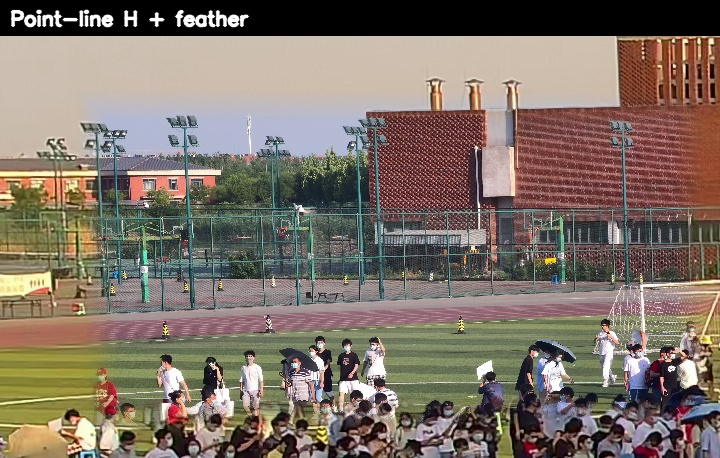
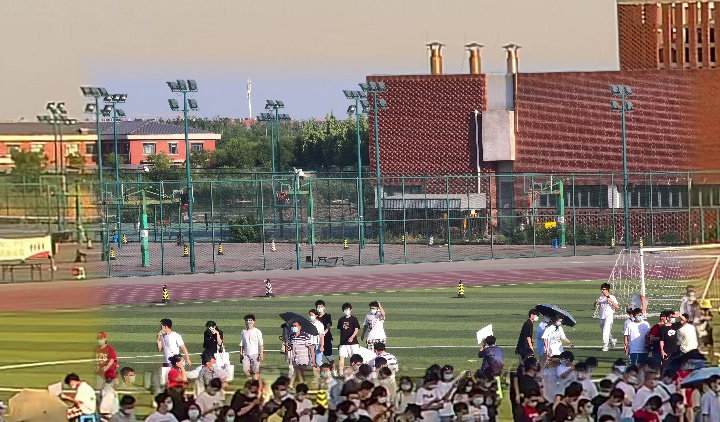
Polish three-region example figures

diff --git a/src/three_region_stitch/visualization.py b/src/three_region_stitch/visualization.py
@@ -35,19 +35,28 @@ def focus_bbox(roi: tuple[int, int, int, int], shape: tuple[int, int, int], padd
     )
 
 
+def same_crop_images(
+    pure: np.ndarray,
+    three_region: np.ndarray,
+    roi: tuple[int, int, int, int],
+) -> tuple[np.ndarray, np.ndarray]:
+    """Return the same ROI from both results without adding image annotations."""
+    if pure.shape != three_region.shape:
+        raise ValueError("Comparison images must be on the same Global canvas")
+    x0, y0, x1, y1 = focus_bbox(roi, pure.shape)
+    return pure[y0:y1, x0:x1].copy(), three_region[y0:y1, x0:x1].copy()
+
+
 def same_crop_panels(
     pure: np.ndarray,
     three_region: np.ndarray,
     roi: tuple[int, int, int, int],
     titles: tuple[str, str] = ("Point-line H + feather", "Motion + RAFT + Global"),
 ) -> tuple[np.ndarray, np.ndarray]:
-    if pure.shape != three_region.shape:
-        raise ValueError("Comparison images must be on the same Global canvas")
-    x0, y0, x1, y1 = focus_bbox(roi, pure.shape)
+    crops = same_crop_images(pure, three_region, roi)
     bar = 36
     panels = []
-    for image, title in zip((pure, three_region), titles):
-        crop = image[y0:y1, x0:x1]
+    for crop, title in zip(crops, titles):
         panel = np.zeros((crop.shape[0] + bar, crop.shape[1], 3), dtype=np.uint8)
         panel[bar:] = crop
         cv.putText(panel, title, (10, 25), cv.FONT_HERSHEY_SIMPLEX,

diff --git a/src/three_region_stitch/cli.py b/src/three_region_stitch/cli.py
@@ -17,7 +17,7 @@ from .geometry import estimate_motion_homography
 from .motion import MotionConfig, detect_motion
 from .regions import compose_three_regions, compose_with_global_sr, prepare_regions
 from .super_resolution import FSRCNNX4, sharpen_for_display
-from .visualization import region_overlay, same_crop_panels, tint
+from .visualization import region_overlay, same_crop_images, tint
 
 
 def _read_image(path: Path, flags: int = cv.IMREAD_COLOR) -> np.ndarray:
@@ -207,7 +207,7 @@ def main(argv=None) -> int:
     comparison_paths = None
     if pure_path.is_file():
         pure = _pure_on_global_canvas(pure_path, global_frame.shape)
-        pure_focus, three_region_focus = same_crop_panels(pure, composed.image, roi)
+        pure_focus, three_region_focus = same_crop_images(pure, composed.image, roi)
         pure_focus_path = output / "pure_stitch_focus.jpg"
         three_region_focus_path = output / "three_region_focus.jpg"
         _write_image(pure_focus_path, pure_focus)

diff --git a/README.md b/README.md
@@ -44,33 +44,39 @@ Local 和 Global 短视频生成的运动掩膜用于辅助划分融合区域，
    三个区域互不重叠，并覆盖整张 Global 画布。运动掩膜标记的是视频中随时间发生变化的位置，不是前景/背景语义标签。它帮助选择融合路径；树木、路灯杆等静止近景如果产生局部视差，会由 RAFT 区尝试对齐，RAFT 不可靠时则使用 Global 背景。
 5. **合成高分辨率结果**：先对 Global 背景执行 FSRCNN x4，再将红色单应性区域和蓝色 RAFT 区域的 Local 内容合入对应位置。仅在三区边界附近羽化，默认半径为原画布 2 px。
 
-当前展示这一组商街样例。Local 输入保留相机原始的 3840 × 2160 分辨率；输入预览统一显示宽度。Local/Global 输入、200 帧 ROI 视频、缓存的掩膜/RAFT 中间结果、最终图和同范围对照均在仓库中。视频是真实相机帧，不是合成运动。详见[三分区域算法、数据与复现](docs/three_region_stitch.md)。
+当前展示这一组商街样例。Local 输入保留相机原始的 3840 × 2160 分辨率；Local/Global 输入、200 帧 ROI 视频、缓存的掩膜/RAFT 中间结果、最终图和同范围对照均在仓库中。视频是真实相机帧，不是合成运动。详见[三分区域算法、数据与复现](docs/three_region_stitch.md)。
 
-### 商街人群 `20220806141041707_cam11` · Frame 6000
+### 商街人群 · `20220806141041707_cam11`
 
-| Local Frame 6000（全幅） | Global `input/global.jpg`（Frame 6000，1070 × 786） |
+#### 输入图像
+
+| Local 输入 | Global 输入 |
 | --- | --- |
-| <img src="examples/three_region_stitch/20220806141041707_cam11/input/local.jpg" width="480" alt="商街 Local Frame 6000"> | <img src="examples/three_region_stitch/20220806141041707_cam11/input/global.jpg" width="480" alt="商街 Global input/global.jpg Frame 6000"> |
+| <img src="examples/three_region_stitch/20220806141041707_cam11/input/local.jpg" width="480" alt="商街 Local 全幅输入"> | <img src="examples/three_region_stitch/20220806141041707_cam11/input/global.jpg" width="480" alt="商街 Global 输入"> |
 
-左图是 3840 × 2160 的 Local 原始输入。右图是算法实际使用的 Global 输入图，已去畸变并裁剪为 1070 × 786。
+两图是同步的 Frame 6000 输入：Local 为相机原始全幅（3840 × 2160），Global 为去畸变并裁剪后的输入（1070 × 786）。
 
-**三区区域归属图与最终融合结果**：下面两张图并列展示。区域图采用硬掩膜颜色，便于辨认区域边界；最终图以 FSRCNN x4 Global 为背景，合入 Local 内容，并在区域边界以原画布 2 px（x4 输出 8 px）半径羽化。
+#### 区域归属与最终融合
 
-| 三区区域归属图 | 最终高分辨率融合结果 |
+| 三区归属图 | 最终融合结果 |
 | --- | --- |
 | <img src="examples/three_region_stitch/20220806141041707_cam11/output/three_region/region_overlay_on_global_fsrcnn_x4.jpg" width="480" alt="商街三区区域归属图"> | <img src="examples/three_region_stitch/20220806141041707_cam11/output/three_region/final_result_global_fsrcnn_x4.jpg" width="480" alt="商街最终高分辨率融合结果"> |
 
-区域颜色：红色是双视角运动掩膜交集内有效的单应性区；蓝色是红区外通过 RAFT 检查的区域；绿色保留 Global。
+左图叠加在 FSRCNN x4 Global 背景上，以硬掩膜颜色显示归属：红色为 Local 与 Global 双运动掩膜交集内且 Local 投影有效的单应性区，蓝色为红区外通过 RAFT 前后向一致性检查的 Local 区域，绿色由 Global 保留。右图以相同的 x4 Global 为背景合入 Local 内容，并在区域交界处高斯羽化（原画布半径 2 px，放大后 8 px）。
 
-**同一 ROI 的拼接方法对照**：两张图分别展示纯点线单应性拼接（左）和三分区域融合（右），使用相同 ROI，保持为独立图片。
+#### 同一 ROI 拼接对照
 
 | 纯点线单应性拼接 | 三分区域融合 |
 | --- | --- |
 | <img src="examples/three_region_stitch/20220806141041707_cam11/output/three_region/pure_stitch_focus.jpg" width="480" alt="商街纯点线拼接 ROI"> | <img src="examples/three_region_stitch/20220806141041707_cam11/output/three_region/three_region_focus.jpg" width="480" alt="商街三分区域融合 ROI"> |
 
-**静态共同区域误差热图**：比较纯点线单应性和 RAFT 静态区相对 Global 的像素误差。蓝色误差较小，红色误差较大，黑色表示不在共同静态评测区域内；它用于观察静态区对齐，不是融合结果图。
+两图为相同 Global ROI 的原始拼接结果裁剪，不叠加标题框；纯点线结果使用 32 px 边缘羽化，三分区域结果在三区交界处以原画布半径 2 px 羽化。
+
+#### 静态区域误差热图
 
 ![商街静态共同区域误差热图](examples/three_region_stitch/20220806141041707_cam11/output/benchmark/static_error_heatmaps.jpg)
+
+热图比较纯点线单应性和 RAFT 静态区相对 Global 的像素误差；蓝色误差较小，红色较大，黑色表示不在共同静态评测区域内，用于观察静态区对齐。
 
 ## 快速运行
 

diff --git a/docs/three_region_stitch.md b/docs/three_region_stitch.md
@@ -74,35 +74,55 @@ three-region-stitch --example examples/three_region_stitch/20220806141041707_cam
 | `output/benchmark/metrics.json` | SIFT/纯点线 H/RAFT 静态区共同像素的指标 |
 | `output/benchmark/static_error_heatmaps.jpg` | 同一静态共同掩膜、同一误差色标下与 Global 参考帧的误差图 |
 
-商街人群的区域归属与高分辨率最终融合结果：
+### 商街人群 · `20220806141041707_cam11`
 
-| 区域归属图 | 最终融合结果 |
+#### 区域归属与最终融合
+
+| 三区归属图 | 最终融合结果 |
 | --- | --- |
 | ![商街 Global 超分背景上的区域划分](../examples/three_region_stitch/20220806141041707_cam11/output/three_region/region_overlay_on_global_fsrcnn_x4.jpg) | ![商街 Global 超分背景上的最终融合图](../examples/three_region_stitch/20220806141041707_cam11/output/three_region/final_result_global_fsrcnn_x4.jpg) |
 
-商街 Frame 6000 同一 ROI 的两种方法对照：
+左图叠加在 FSRCNN x4 Global 背景上，以硬掩膜颜色显示归属：红色为 Local 与 Global 双运动掩膜交集内且 Local 投影有效的单应性区，蓝色为红区外通过 RAFT 前后向一致性检查的 Local 区域，绿色由 Global 保留。右图以相同的 x4 Global 为背景合入 Local 内容，并在区域交界处高斯羽化（原画布半径 2 px，放大后 8 px）。
+
+#### 同一 ROI 拼接对照
 
 | 纯点线单应性拼接 | 三分区域融合 |
 | --- | --- |
 | ![商街纯点线拼接局部](../examples/three_region_stitch/20220806141041707_cam11/output/three_region/pure_stitch_focus.jpg) | ![商街三分区域融合局部](../examples/three_region_stitch/20220806141041707_cam11/output/three_region/three_region_focus.jpg) |
 
-蓝色代表误差小，红色代表误差大，黑色在共同静态评测掩膜之外；两幅热图使用相同色标。
+两图为相同 Global ROI 的原始拼接结果裁剪，不叠加标题框；纯点线结果使用 32 px 边缘羽化，三分区域结果在三区交界处以原画布半径 2 px 羽化。
+
+#### 静态区域误差热图
 
 ![商街静态共同区域误差](../examples/three_region_stitch/20220806141041707_cam11/output/benchmark/static_error_heatmaps.jpg)
 
-城市道路 Frame 6000 同一 ROI 的两种方法对照：
+蓝色代表误差较小，红色代表误差较大，黑色表示不在共同静态评测区域内；两幅热图使用相同色标，用于观察纯点线单应性和 RAFT 静态区相对 Global 的对齐误差。
+
+### 城市道路 · `20210304162543165_cam11`
+
+#### 同一 ROI 拼接对照
 
 | 纯点线单应性拼接 | 三分区域融合 |
 | --- | --- |
 | ![道路纯点线拼接局部](../examples/three_region_stitch/20210304162543165_cam11/output/three_region/pure_stitch_focus.jpg) | ![道路三分区域融合局部](../examples/three_region_stitch/20210304162543165_cam11/output/three_region/three_region_focus.jpg) |
 
-运动场人群 Frame 6000 同一 ROI 的两种方法对照：
+两图为相同 Global ROI 的原始拼接结果裁剪，不叠加标题框；纯点线结果使用 32 px 边缘羽化，三分区域结果在三区交界处以原画布半径 2 px 羽化。
+
+#### 静态区域误差热图
+
+![道路静态共同区域误差](../examples/three_region_stitch/20210304162543165_cam11/output/benchmark/static_error_heatmaps.jpg)
+
+蓝色代表误差较小，红色代表误差较大，黑色表示不在共同静态评测区域内；热图用于观察纯点线单应性和 RAFT 静态区相对 Global 的对齐误差。
+
+### 运动场人群 · `20220601174105159_cam11`
+
+#### 同一 ROI 拼接对照
 
 | 纯点线单应性拼接 | 三分区域融合 |
 | --- | --- |
 | ![运动场纯点线拼接局部](../examples/three_region_stitch/20220601174105159_cam11/output/three_region/pure_stitch_focus.jpg) | ![运动场三分区域融合局部](../examples/three_region_stitch/20220601174105159_cam11/output/three_region/three_region_focus.jpg) |
 
-![道路静态共同区域误差](../examples/three_region_stitch/20210304162543165_cam11/output/benchmark/static_error_heatmaps.jpg)
+两图为相同 Global ROI 的原始拼接结果裁剪，不叠加标题框；纯点线结果使用 32 px 边缘羽化，三分区域结果在三区交界处以原画布半径 2 px 羽化。
 
 ## 评测协议与边界
 
